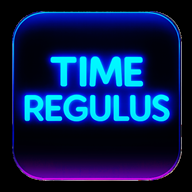
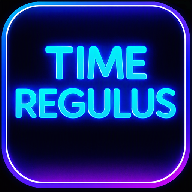
Add files via upload

diff --git a/index.html b/index.html
@@ -17,9 +17,25 @@
   <meta http-equiv="Cache-Control" content="no-cache, no-store, must-revalidate">
   <meta http-equiv="Pragma" content="no-cache">
   <meta http-equiv="Expires" content="0">
+  <!-- ファビコン・アプリアイコン設定（Windows, iOS, Chrome, Edge, Safari, ブックマーク対応） -->
+  <link rel="shortcut icon" href="favicon.ico?v=2">
+  <link rel="icon" type="image/x-icon" href="favicon.ico?v=2">
+  <link rel="icon" type="image/png" sizes="16x16" href="favicon-16x16.png?v=2">
+  <link rel="icon" type="image/png" sizes="32x32" href="favicon-32x32.png?v=2">
+  <link rel="icon" type="image/png" sizes="48x48" href="favicon-48x48.png?v=2">
+  <link rel="icon" type="image/png" sizes="192x192" href="icon-192.png?v=2">
+  <!-- iOS Safari対応 -->
+  <link rel="apple-touch-icon" sizes="180x180" href="apple-touch-icon.png?v=2">
+  <link rel="apple-touch-icon" href="apple-touch-icon.png?v=2">
+  <meta name="apple-mobile-web-app-capable" content="yes">
+  <meta name="apple-mobile-web-app-status-bar-style" content="black-translucent">
+  <meta name="apple-mobile-web-app-title" content="TimeRegulus💫">
+  <!-- Windows / Chrome テーマカラー & タイル画像 -->
+  <meta name="theme-color" content="#0e0f11">
+  <meta name="msapplication-TileColor" content="#0e0f11">
+  <meta name="msapplication-TileImage" content="icon-192.png?v=2">
+  <!-- PWA Manifest -->
   <link rel="manifest" href="manifest.json">
-  <meta name="apple-mobile-web-app-title" content="TimeRegulus🦖">
-  <link rel="apple-touch-icon" href="icon-192.png">
   <!-- ★【起動高速化】ロック画面用CSS（小・ブロッキング）→ 先に読み込んで即表示 -->
   <link rel="stylesheet" href="style-lock.css?c=32">
   <!-- ★【起動高速化】メインCSS（大・非ブロッキング）→ ロック画面表示後に裏で読み込む -->
@@ -27,8 +43,6 @@
   <noscript>
     <link rel="stylesheet" href="style-main.css?c=71">
   </noscript>
-  <meta name="apple-mobile-web-app-capable" content="yes">
-  <meta name="apple-mobile-web-app-status-bar-style" content="black-translucent">
   <style>
     @keyframes riseInLong {
       0% {

diff --git a/service-worker.js b/service-worker.js
@@ -1,5 +1,5 @@
 // Time Regulus Service Worker - PWA & Network-First for HTML
-const CACHE_NAME = "time-regulus-v3.3.3-pwa-v1";
+const CACHE_NAME = "time-regulus-v3.3.3-pwa-v3";
 
 const urlsToCache = [
   "./",
@@ -9,6 +9,12 @@ const urlsToCache = [
   "./script.js?c=92",
   "./i18n.js?v=17",
   "./manifest.json",
+  "./favicon.ico",
+  "./favicon-16x16.ico",
+  "./favicon-16x16.png",
+  "./favicon-32x32.png",
+  "./favicon-48x48.png",
+  "./apple-touch-icon.png",
   "./icon-192.png",
   "./icon-512.png",
   "./icon-maskable-192.png",
